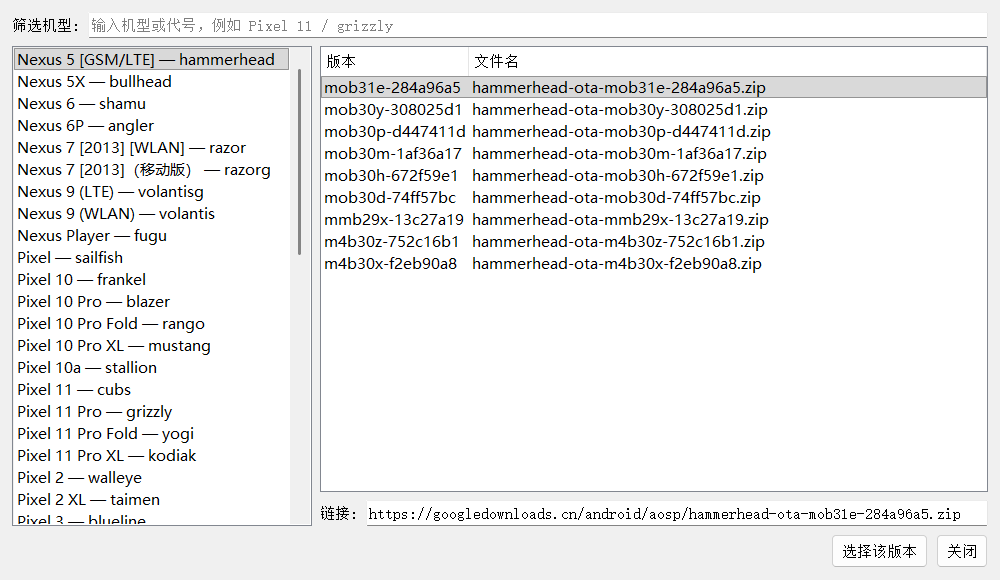
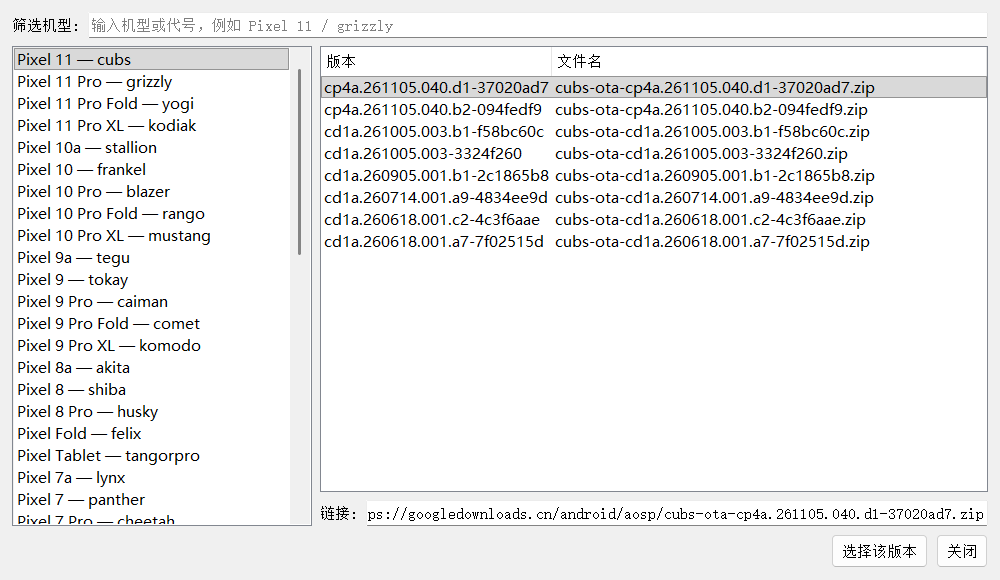
feat: OTA 列表按发布年份从新到旧排序 (v2.0.5)
需求：Pixel 11 / Android 17 排在 Pixel 10 / Android 16 前面，不要按字母排
（字母序会把 Pixel 9a 排到 Pixel 10 后面）。

实现：
- device_year(): Pixel N 年份 ≈ N + 2015（Pixel 6=2021 … Pixel 11=2026）；
  带 a 的（Pixel 9a）比同代晚半年，于是 Pixel 10 > Pixel 9a > Pixel 9；
  Pixel Fold / Tablet / C / XL / Nexus 系列查表补年份
- 机型按 (-年份, 名称) 排序：同年内 Pixel 10 → 10 Pro → 10 Pro Fold → 10 Pro XL
- version_sort_key(): 从构建号抽 YYMMDD（cp4a.261105.040 → 2026-11-05）排序，
  没有日期的（Nexus 的 mob31e-284a96a5）自然排后面

实测顺序：Pixel 11 → 11 Pro → 11 Pro Fold → 11 Pro XL → 10a → 10 → 10 Pro →
10 Pro Fold → 10 Pro XL → 9a → 9 → 9 Pro → … → Nexus 7 [2013]

测试：
- 自检 33/33（新增机型年份估算、版本日期排序、假页面解析顺序 3 组用例）
- 端到端 17/17（新增「OTA 列表从新到旧」：首项 Pixel 11(2026.0)、末项 Nexus 7(2013.0)，
  逐项单调不增）
- 源码与冻结 exe 各跑一遍全通过；桌面 exe sha256 A4A75B50...A1C1

diff --git a/qt_extractor.py b/qt_extractor.py
@@ -1,4 +1,4 @@
-# -*- coding: utf-8 -*-
+# -*- coding: utf-8 -*-
 """固件远程提取工具 v2.0 —— PyQt5 单文件版
 
 相对 v1 的改动：
@@ -52,7 +52,7 @@ from payload_extractor import (
 urllib3.disable_warnings(urllib3.exceptions.InsecureRequestWarning)
 
 APP_NAME = "固件远程提取工具"
-APP_VERSION = "2.0.4"
+APP_VERSION = "2.0.5"
 
 MAX_RETRIES = 5
 RETRY_DELAYS = [5, 10, 20, 40, 60]
@@ -646,6 +646,45 @@ _MODEL_RE = re.compile(
     r"|XL|C|Fold|Tablet|Slate|Watch|Buds)\b", re.I)
 
 
+_DEVICE_YEAR_HINTS = {
+    "pixel fold": 2023.0, "pixel tablet": 2023.0, "pixel c": 2015.0,
+    "pixel watch": 2022.0, "pixel xl": 2016.0, "pixel": 2016.0,
+    "nexus player": 2014.0, "nexus 10": 2012.0, "nexus 9": 2014.0,
+    "nexus 7": 2013.0, "nexus 6p": 2015.0, "nexus 6": 2014.0,
+    "nexus 5x": 2015.0, "nexus 5": 2013.0, "nexus 4": 2012.0,
+    "nexus s": 2010.0, "nexus one": 2010.0,
+}
+
+
+def device_year(name):
+    """估算机型发布年份，用于“新的排前面”
+
+    Pixel N 的年份 ≈ N + 2015（Pixel 6=2021 … Pixel 11=2026）；
+    带 a 的（Pixel 9a）比同代晚半年；Pixel Fold / Tablet / Nexus 等查表。
+    """
+    text = (name or "").lower().strip()
+    match = re.search(r"pixel\s+(\d+)", text)
+    if match:
+        year = float(int(match.group(1)) + 2015)
+        if re.search(r"\d+\s*a\b", text):
+            year += 0.5
+        return year
+    for key in sorted(_DEVICE_YEAR_HINTS, key=len, reverse=True):
+        if text.startswith(key):
+            return _DEVICE_YEAR_HINTS[key]
+    return 0.0
+
+
+def version_sort_key(version):
+    """构建号里带 YYMMDD（cp4a.261105.040），用它排序最准"""
+    match = re.search(r"\.(\d{2})(\d{2})(\d{2})(?:\.|$)", version or "")
+    if match:
+        year, month, day = (int(part) for part in match.groups())
+        if 1 <= month <= 12 and 1 <= day <= 31:
+            return (1, year * 10000 + month * 100 + day)
+    return (0, 0)
+
+
 def clean_device_name(raw_text, codename=""):
     """把 Google OTA 页上的冗长标题压成干净的机型名
 
@@ -718,9 +757,11 @@ def parse_ota_page(html_text):
                 version = file_name
             versions.append((version, link))
         if versions:
-            versions.sort(key=lambda item: item[0].lower(), reverse=True)
+            versions.sort(key=lambda item: (version_sort_key(item[0]), item[0]), reverse=True)
             devices.append({"codename": codename, "name": name, "versions": versions})
-    devices.sort(key=lambda item: (item["name"].lower(), item["codename"].lower()))
+    # 从新到旧：Pixel 11/Android 17 的机型排在 Pixel 10/Android 16 前面
+    devices.sort(key=lambda device: (-device_year(device["name"]),
+                                     device["name"].lower(), device["codename"].lower()))
     return devices
 
 
@@ -1292,7 +1333,36 @@ def run_selftest():
         got = clean_device_name(raw, code)
         check("机型名清洗 %r" % expect, got == expect, "got=%r" % got)
 
-    # 2c) 已回收 QThread 引用过滤（否则点第二次展开目录就闪退）
+    # 2c) 机型排序：新的在前（Pixel 11 / Android 17 早于 Pixel 10 / Android 16）
+    years = [device_year(name) for name in
+             ("Pixel 11", "Pixel 10 Pro XL", "Pixel 10", "Pixel 9a", "Pixel 9", "Pixel Fold")]
+    check("机型年份估算(Pixel 9a 晚于 9)", years[2] > years[3] > years[4],
+          " ".join("%s=%.1f" % (n, y) for n, y in zip(("P10", "P9a", "P9"), years[2:])))
+    check("机型年份估算(11 > 10)",
+          device_year("Pixel 11 Pro XL") > device_year("Pixel 10 Pro XL"),
+          "%.1f > %.1f" % (device_year("Pixel 11 Pro XL"), device_year("Pixel 10 Pro XL")))
+
+    # 2d) 版本号排序：构建号里的 YYMMDD 说了算
+    newer = version_sort_key("cp4a.261105.040.d1-37020ad7")
+    older = version_sort_key("cd1a.260618.001.a7-7f02515d")
+    unknown = version_sort_key("mob31e-284a96a5")
+    check("版本号按日期排序", newer > older > unknown, "%s > %s > %s" % (newer, older, unknown))
+
+    # 2e) 页面解析后的顺序就是从新到旧
+    fake_page = (
+        '<h2 id="frankel" data-text="Pixel 10 的代号为“frankel”">X</h2>'
+        '<a href="https://googledownloads.cn/dl/android/aosp/frankel-ota-cp1a.251020.001-aaaa.zip">l</a>'
+        '<h2 id="cubs" data-text="Pixel 11 的代号为“cubs”">X</h2>'
+        '<a href="https://googledownloads.cn/dl/android/aosp/cubs-ota-cp4a.261105.040-bbbb.zip">l</a>'
+        '<h2 id="tegu" data-text="适用于 Pixel 9a 的 “tegu”">X</h2>'
+        '<a href="https://googledownloads.cn/dl/android/aosp/tegu-ota-cd1a.260618.001-cccc.zip">l</a>'
+    )
+    parsed = parse_ota_page(fake_page)
+    order = [device["name"] for device in parsed]
+    check("OTA 列表从新到旧排序", order == ["Pixel 11", "Pixel 10", "Pixel 9a"],
+          " → ".join(order))
+
+    # 2f) 已回收 QThread 引用过滤（否则点第二次展开目录就闪退）
     class _DeadThread(object):                     # 模拟被 deleteLater 回收的 QThread
         def isFinished(self):
             raise RuntimeError("wrapped C/C++ object has been deleted")
@@ -1665,6 +1735,16 @@ def run_e2e(window, log_path):
         chosen = dialog.chosen or ""
         dialog.close()
         dialog = None
+
+        # 列表必须从新到旧（Pixel 11 在 Pixel 10 之前）
+        names = [label.partition(" — ")[0] for label in labels]
+        years = [device_year(name) for name in names]
+        ordered = all(years[index] >= years[index + 1]
+                      for index in range(len(years) - 1))
+        record("OTA 列表从新到旧",
+               ordered and names and device_year(names[0]) >= 2025,
+               "首项 %s(%.1f)，末项 %s(%.1f)" % (names[0], years[0],
+                                               names[-1], years[-1]) if names else "空列表")
         record("OTA 对话框排版与选择",
                not dirty and version_rows > 0 and link_text.lower().endswith(".zip")
                and 0 < filtered < restored and chosen.lower().endswith(".zip"),
@@ -2631,6 +2711,7 @@ if __name__ == "__main__":
         except Exception:
             pass
         raise
+
 
 
 

diff --git a/CHANGELOG.md b/CHANGELOG.md
@@ -1,5 +1,28 @@
 # 更新日志
 
+## v2.0.5 (2026-11-17)
+
+OTA 列表改成**从新到旧**。
+
+### 改进
+
+- **机型按发布年份倒序**：`Pixel 11` / Android 16-17 的机型排在 `Pixel 10` / Android 15-16 前面，
+  不再按字母排（字母序会把 `Pixel 9a` 排到 `Pixel 10` 后面）
+  - `Pixel N` 的年份按 `N + 2015` 估算（Pixel 6=2021 … Pixel 11=2026）
+  - 带 `a` 的（Pixel 9a）比同代晚半年，所以 `Pixel 10 > Pixel 9a > Pixel 9`
+  - `Pixel Fold` / `Pixel Tablet` / `Pixel C` / `Pixel XL` / Nexus 系列查表补年份
+  - 同年份内按名称排（`Pixel 10` → `Pixel 10 Pro` → `Pixel 10 Pro Fold` → `Pixel 10 Pro XL`）
+- **版本按构建日期倒序**：从构建号里抽 `YYMMDD`（`cp4a.261105.040` → 2026-11-05），
+  比按字符串排准；没有日期的（如 Nexus 的 `mob31e-284a96a5`）排在后面
+- 实测顺序：`Pixel 11 → 11 Pro → 11 Pro Fold → 11 Pro XL → 10a → 10 → 10 Pro →
+  10 Pro Fold → 10 Pro XL → 9a → 9 → 9 Pro → … → Nexus 7 [2013]`
+
+### 测试
+
+- 自检 **33/33**（新增：机型年份估算、版本日期排序、假页面解析后的顺序）
+- 端到端 **17/17**（新增「OTA 列表从新到旧」：首项 Pixel 11(2026.0)、末项 Nexus 7(2013.0)，
+  逐项年份单调不增）
+
 ## v2.0.4 (2026-11-17)
 
 OTA 下载列表重做。
